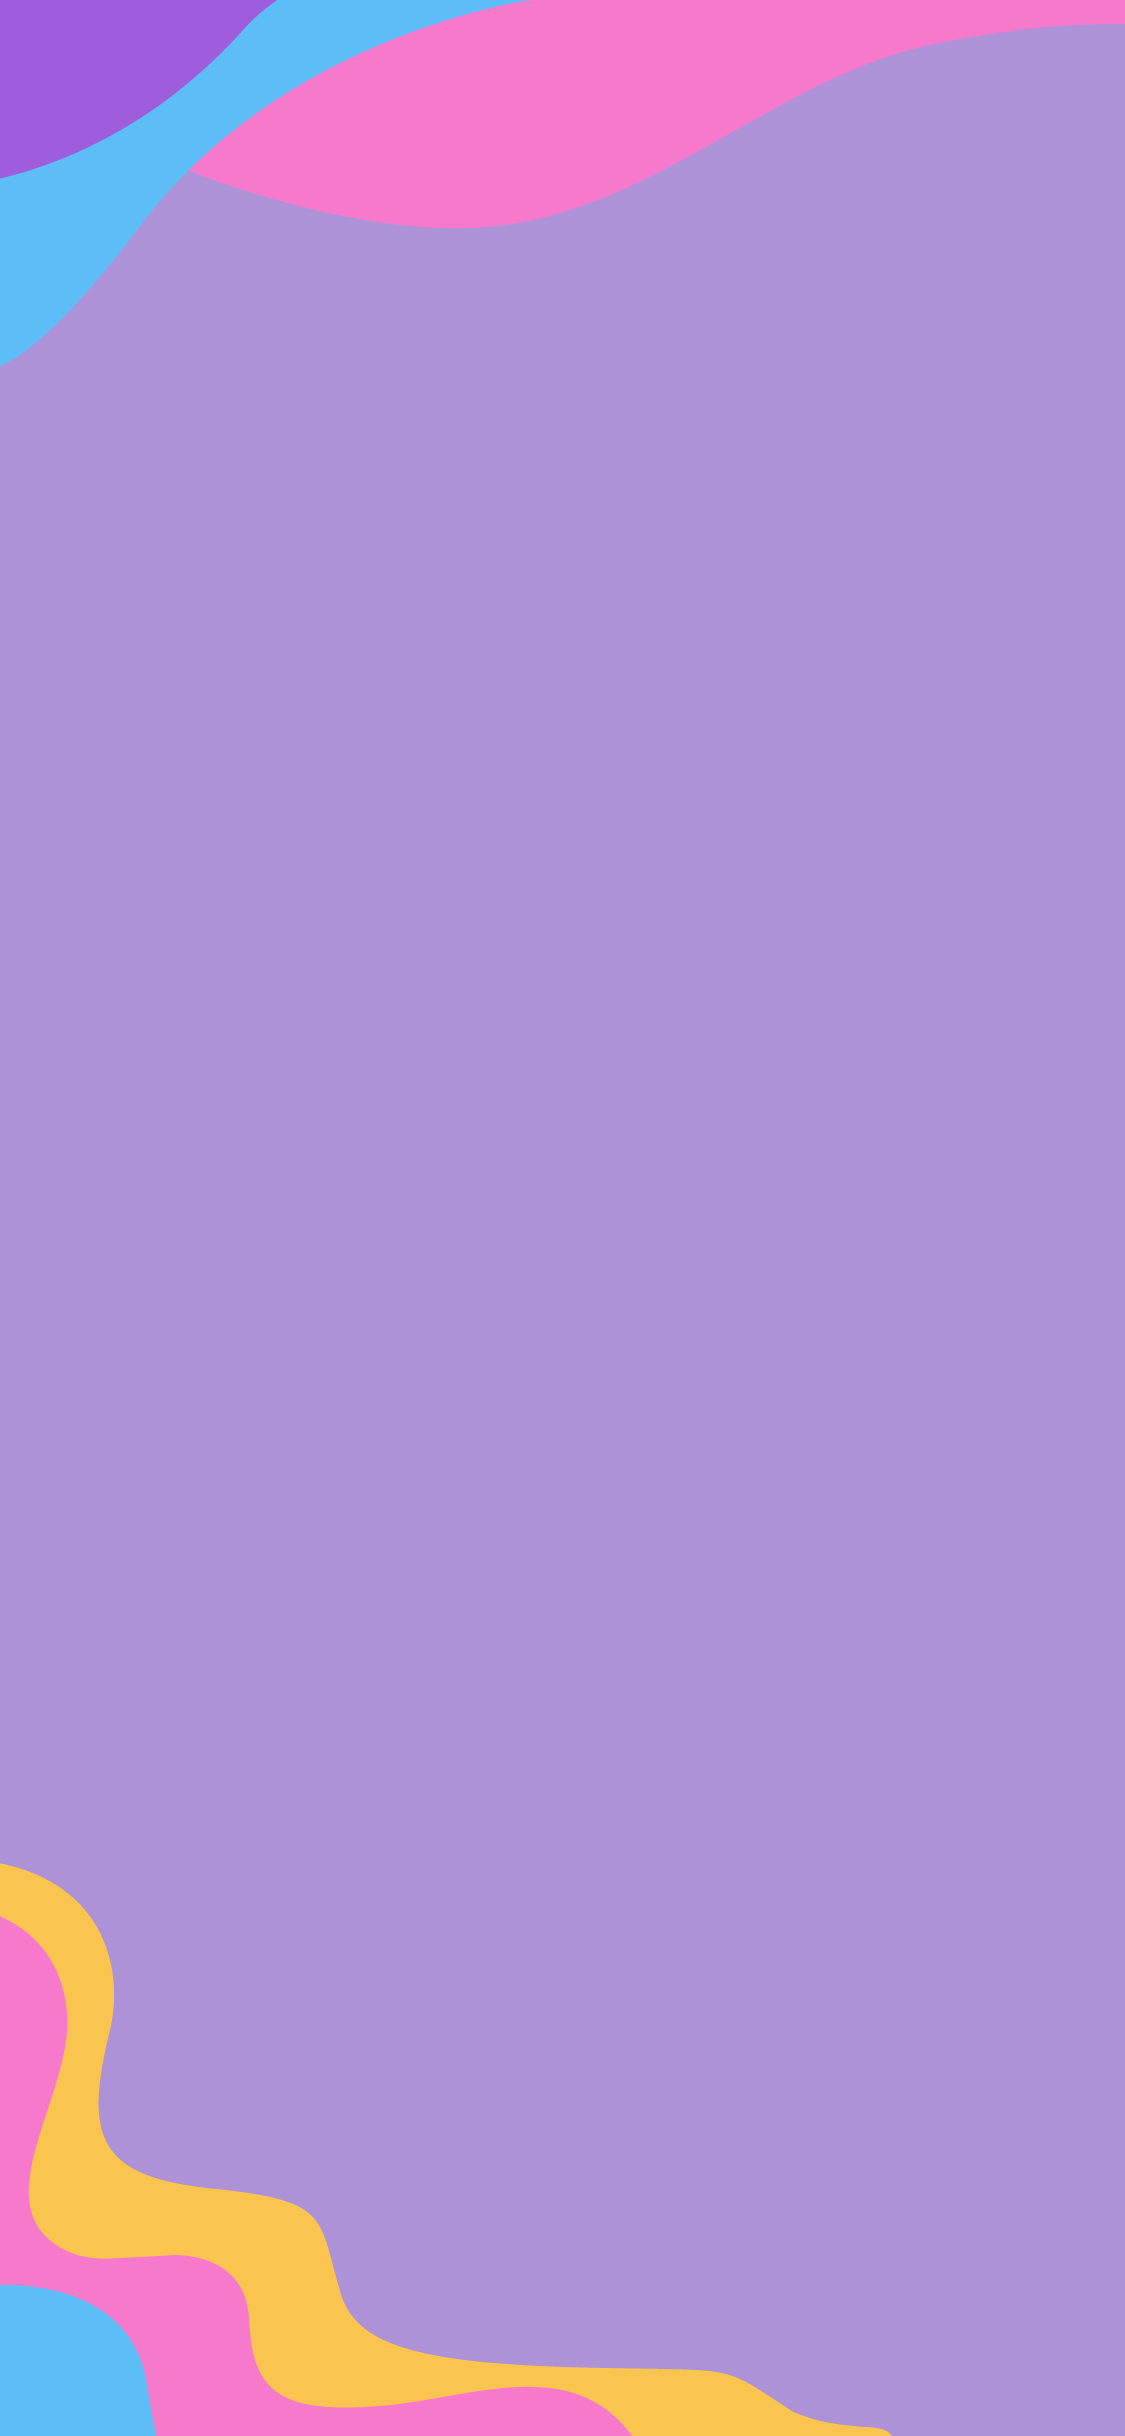
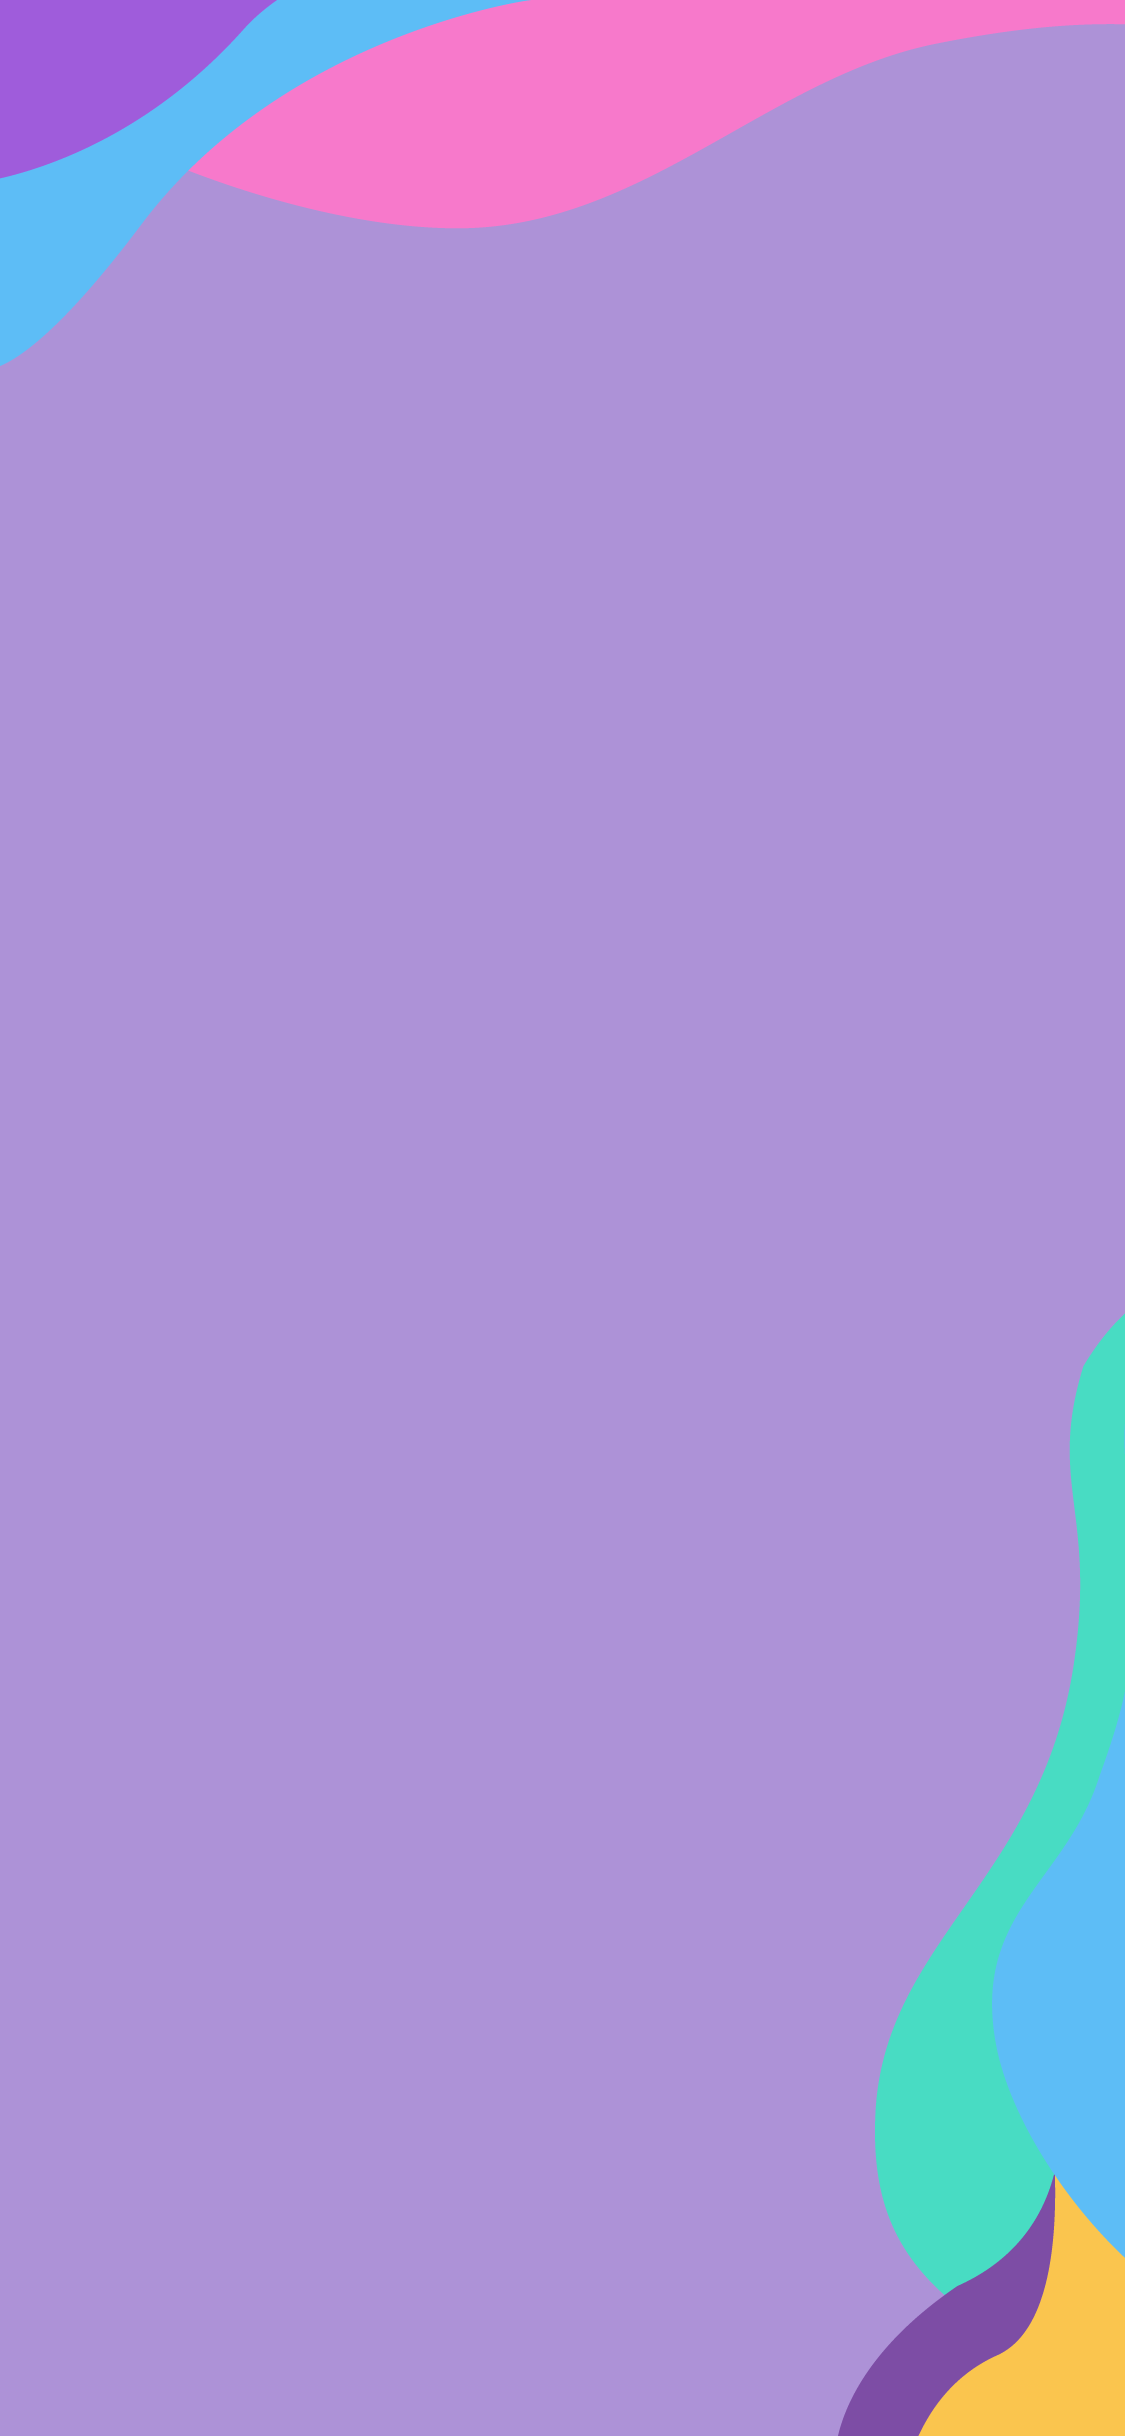
bg sroll

Changed region(s): [[0.0, 0.5304, 1.0, 1.0]]

diff --git a/app/lib/screens/main_screen.dart b/app/lib/screens/main_screen.dart
@@ -1,19 +1,21 @@
-import "package:flutter/cupertino.dart";
 import 'package:flutter/material.dart';
+import "package:flutter/cupertino.dart";
 import "package:provider/provider.dart";
-import "package:persistent_bottom_nav_bar_v2/persistent-tab-view.dart";
+import 'package:carousel_slider/carousel_controller.dart';
 
 import "package:feel_the_art/theme/theme.dart";
+import 'package:feel_the_art/components/background.dart';
 import "package:feel_the_art/services/account_service.dart";
 import "package:feel_the_art/utils/request/obj_status.dart";
 import "package:feel_the_art/screens/loading/loading_screen.dart";
+import 'package:feel_the_art/screens/leader_board/quizScreen.dart';
 
 import "account/account_screen.dart";
 import "home_page/home_page_screen.dart";
 import "collection/collection_screen.dart";
 import "on_boarding/on_boarding_screen.dart";
 import "leader_board/leader_board_screen.dart";
-import 'package:feel_the_art/screens/leader_board/quizScreen.dart';
+
 
 class MainScreen extends StatefulWidget {
   const MainScreen({Key? key}) : super(key: key);
@@ -23,76 +25,82 @@ class MainScreen extends StatefulWidget {
 }
 
 class MainScreenState extends State<MainScreen> {
-  late final PersistentTabController _controller;
+  final CarouselController _carouselController = CarouselController();
+  int _menuIndex = 0;
 
-  @override
-  void initState() {
-    super.initState();
-    _controller = PersistentTabController(initialIndex: 0);
-  }
-
-  @override
-  void dispose() {
-    super.dispose();
-    _controller.dispose();
-  }
-
-  List<PersistentBottomNavBarItem> _navBarsItems() {
-    return [
-      PersistentBottomNavBarItem(
-        icon: const Icon(CupertinoIcons.game_controller),
-        title: ("Gioca"),
-        activeColorPrimary: primaryColor,
-        inactiveColorPrimary: CupertinoColors.systemGrey,
+  List<BottomNavigationBarItem> navigationItems() {
+    return const [
+      BottomNavigationBarItem(
+        icon: Icon(CupertinoIcons.game_controller),
+        label: "Gioca",
       ),
-      PersistentBottomNavBarItem(
-        icon: const Icon(CupertinoIcons.collections),
-        title: ("Collezione"),
-        activeColorPrimary: primaryColor,
-        inactiveColorPrimary: CupertinoColors.systemGrey,
+      BottomNavigationBarItem(
+        icon: Icon(CupertinoIcons.collections),
+        label: "Collezione",
       ),
-      PersistentBottomNavBarItem(
-        icon: const Icon(CupertinoIcons.question_square),
-        title: ("Classifica"),
-        activeColorPrimary: primaryColor,
-        inactiveColorPrimary: CupertinoColors.systemGrey,
+      BottomNavigationBarItem(
+        icon: Icon(CupertinoIcons.question_square),
+        label: "Classifica",
       ),
-      PersistentBottomNavBarItem(
-        icon: const Icon(CupertinoIcons.person_crop_circle),
-        title: ("Profilo"),
-        activeColorPrimary: primaryColor,
-        inactiveColorPrimary: CupertinoColors.systemGrey,
+      BottomNavigationBarItem(
+        icon: Icon(CupertinoIcons.person_crop_circle),
+        label: "Profilo",
       ),
-      PersistentBottomNavBarItem(
-        icon: const Icon(CupertinoIcons.ellipsis_circle),
-        title: ("Debug"),
-        activeColorPrimary: primaryColor,
-        inactiveColorPrimary: CupertinoColors.systemGrey,
+      BottomNavigationBarItem(
+        icon: Icon(CupertinoIcons.ellipsis_circle),
+        label: "Debug",
       )
     ];
+  }
+
+  void _onMenuChange(int index) {
+    setState(() {
+      _menuIndex = index;
+    });
+    _carouselController.animateToPage(index);
+  }
+
+  Widget _getContent() {
+    switch (_menuIndex) {
+      case 0:
+        return const HomePageScreen();
+      case 1:
+        return const CollectionScreen();
+      case 2:
+        return const LeaderBoardScreen();
+      case 3:
+        return const AccountScreen();
+      case 4:
+        return const QuizScreen();
+      default:
+        return const Text("ERROR");
+    }
   }
 
   @override
   Widget build(BuildContext context) {
     AccountService accountInfo = Provider.of<AccountService>(context);
+
     if (accountInfo.status == ObjStatus.ready) {
-      if (accountInfo.onBoard) {
-        return const OnBoardingScreen(key: Key("OnBoardingScreen"));
-      } else {
-        return PersistentTabView(
-          context,
-          controller: _controller,
-          screens: const [
-            HomePageScreen(),
-            CollectionScreen(),
-            LeaderBoardScreen(),
-            AccountScreen(),
-            QuizScreen(),
-          ],
-          items: _navBarsItems(),
-          navBarStyle: NavBarStyle.style3,
-        );
-      }
+      return Stack(
+        children: [
+          Container(color: bgColor,),
+          Background(_carouselController),
+          accountInfo.onBoard
+              ? const OnBoardingScreen()
+              : Scaffold(
+                  backgroundColor: Colors.transparent,
+                  body: _getContent(),
+                  bottomNavigationBar: BottomNavigationBar(
+                    items: navigationItems(),
+                    currentIndex: _menuIndex,
+                    onTap: (i) => _onMenuChange(i),
+                    selectedItemColor: primaryColor,
+                    unselectedItemColor: bgColor,
+                  ),
+                )
+        ],
+      );
     } else if (accountInfo.status == ObjStatus.loading) {
       return const LoadingScreen();
     } else {

diff --git a/app/lib/screens/collection/collection_screen.dart b/app/lib/screens/collection/collection_screen.dart
@@ -16,39 +16,35 @@ class CollectionScreen extends StatelessWidget {
     final deck = Provider.of<DeckListService>(context);
     double proportionate20px = MediaQuery.of(context).getProportionateScreenHeight(20);
     if (deck.status == ObjStatus.ready) {
-      return Scaffold(
-          body: Stack(children: [
-        BackgroundScreen(bgColor.withOpacity(0.8)),
-        Column(
-          children: <Widget>[
-            Expanded(
-              flex: 1,
-              child: Align(
-                alignment: Alignment.center,
-                child: FittedBox(
-                  fit: BoxFit.scaleDown,
-                  child: Stack(
-                    children: [
-                      Text(
-                        "Collezione",
-                        style: Theme.of(context).textTheme.titleMedium,
-                      ),
-                      const Text("Collezione", style: TextStyle(fontSize: 50, color: Colors.white, fontWeight: FontWeight.w600, fontFamily: "ElsieSwashCaps"))
-                    ],
-                  ),
+      return Column(
+        children: <Widget>[
+          Expanded(
+            flex: 1,
+            child: Align(
+              alignment: Alignment.center,
+              child: FittedBox(
+                fit: BoxFit.scaleDown,
+                child: Stack(
+                  children: [
+                    Text(
+                      "Collezione",
+                      style: Theme.of(context).textTheme.titleMedium,
+                    ),
+                    const Text("Collezione", style: TextStyle(fontSize: 50, color: Colors.white, fontWeight: FontWeight.w600, fontFamily: "ElsieSwashCaps"))
+                  ],
                 ),
               ),
             ),
-            Expanded(
-              flex: 6,
-              child: Container(
-                padding: EdgeInsets.symmetric(horizontal: proportionate20px),
-                child: GridCards(deck),
-              ),
-            )
-          ],
-        )
-      ]));
+          ),
+          Expanded(
+            flex: 6,
+            child: Container(
+              padding: EdgeInsets.symmetric(horizontal: proportionate20px),
+              child: GridCards(deck),
+            ),
+          )
+        ],
+      );
     } else {
       return Text("LOADING");
     }

diff --git a/app/lib/components/background.dart b/app/lib/components/background.dart
@@ -1,45 +1,33 @@
 import 'package:feel_the_art/theme/size_config.dart';
 import "package:flutter/material.dart";
+import 'package:carousel_slider/carousel_slider.dart';
 
-class BackgroundScreen extends StatelessWidget {
-  final Color color;
+class Background extends StatelessWidget {
+  final CarouselController carouselController;
 
-  const BackgroundScreen(this.color, {super.key});
+  const Background(this.carouselController, {super.key});
 
   @override
   Widget build(BuildContext context) {
-
-    return Scaffold(
-      body:
-      AnimatedSwitcher(
-        key: const ValueKey(1),
-        duration: const Duration(milliseconds: 700),
-        child: Container(
-          decoration: const BoxDecoration(
-            image: DecorationImage(
-              image: AssetImage("assets/background/bg_1.png"),
-              fit: BoxFit.fill,
-            ),
-          ),
-        ),
-
+    return CarouselSlider(
+      carouselController: carouselController,
+      options: CarouselOptions(
+        scrollPhysics: const NeverScrollableScrollPhysics(),
+        height: MediaQuery.of(context).screenHeight,
+        viewportFraction: 1,
       ),
+      items: [1, 2, 3, 4, 5]
+          .map(
+            (i) => Container(
+              decoration: BoxDecoration(
+                image: DecorationImage(
+                  image: AssetImage("assets/background/bg_$i.png"),
+                  fit: BoxFit.fill,
+                ),
+              ),
+            ),
+          )
+          .toList(),
     );
-
-
-  //   // return Stack(
-  //   //   children: <Widget>[
-  //   //     Carousel()
-  //       Container(
-  //         // color: color,
-  //         decoration: const BoxDecoration(
-  //           image: DecorationImage(
-  //             image: AssetImage("assets/background/bg_1.png"),
-  //             fit: BoxFit.fitHeight,
-  //           ),
-  //         ),
-  //       ),
-  //     // ],
-  //   // );
   }
 }

diff --git a/app/lib/screens/home_page/home_page_screen.dart b/app/lib/screens/home_page/home_page_screen.dart
@@ -15,17 +15,12 @@ class HomePageScreen extends StatefulWidget {
 class _HomePageScreen extends State<HomePageScreen> {
   @override
   Widget build(BuildContext context) {
-    return Stack(children: [
-      BackgroundScreen(bgColor.withOpacity(0.8)),
-      Scaffold(
-          backgroundColor: Colors.transparent,
-          body: Column(
-            children: const <Widget>[
-              Expanded(flex: 2, child: HomePageScreenBar()),
-              Expanded(flex: 7, child: CardTableSlider()),
-              // Expanded(flex: 1, child: Text("DOMANDA DEL GIORNO"))
-            ],
-          ))
-    ]);
+    return Column(
+      children: const <Widget>[
+        Expanded(flex: 2, child: HomePageScreenBar()),
+        Expanded(flex: 7, child: CardTableSlider()),
+        // Expanded(flex: 1, child: Text("DOMANDA DEL GIORNO"))
+      ],
+    );
   }
 }

diff --git a/app/lib/main.dart b/app/lib/main.dart
@@ -1,11 +1,11 @@
 import "package:flutter/material.dart";
 import "package:flutter/services.dart";
-import 'package:flutter_screenutil/flutter_screenutil.dart';
 import "package:provider/provider.dart";
 import "package:device_preview/device_preview.dart";
 
 import "package:feel_the_art/theme/theme.dart";
 import "package:feel_the_art/screens/main_screen.dart";
+import "package:feel_the_art/components/background.dart";
 import "package:feel_the_art/services/account_service.dart";
 import "package:feel_the_art/services/deck_list_service.dart" as decklist;
 

diff --git a/app/lib/screens/account/account_screen.dart b/app/lib/screens/account/account_screen.dart
@@ -12,7 +12,6 @@ class AccountScreen extends StatelessWidget {
   Widget build(BuildContext context) {
     double proportionate40px = MediaQuery.of(context).getProportionateScreenHeight(40);
     return Stack(children: [
-      BackgroundScreen(bgColor.withOpacity(0.8)),
       Scaffold(
         backgroundColor: Colors.transparent,
         body: Column(

diff --git a/app/lib/screens/leader_board/quizScreen.dart b/app/lib/screens/leader_board/quizScreen.dart
@@ -26,7 +26,6 @@ class _QuizScreenState extends State<QuizScreen> {
   Widget build(BuildContext context) {
     return Stack(children: [
       Container(color: primaryColor.withOpacity(0.8)),
-      const BackgroundScreen(Colors.white),
       Scaffold(
         backgroundColor: Colors.transparent,
         body: Container(

diff --git a/app/lib/screens/leader_board/leader_board_screen.dart b/app/lib/screens/leader_board/leader_board_screen.dart
@@ -38,7 +38,6 @@ class LeaderBoardScreen extends StatelessWidget {
     double avatarSize = MediaQuery.of(context).getProportionateScreenHeight(30);
 
     return Stack(children: [
-BackgroundScreen(bgColor.withOpacity(0.8)),
       Scaffold(
         backgroundColor: Colors.transparent,
         body: Column(

diff --git a/app/lib/screens/loading/loading_screen.dart b/app/lib/screens/loading/loading_screen.dart
@@ -11,7 +11,6 @@ class LoadingScreen extends StatelessWidget {
   Widget build(BuildContext context) {
     return Scaffold(
         body: Stack(children: <Widget>[
-          BackgroundScreen(bgColor.withOpacity(0.8)),
           Align(
             alignment: Alignment.center,
             child: SizedBox(

diff --git a/app/lib/screens/card/card_screen.dart b/app/lib/screens/card/card_screen.dart
@@ -23,7 +23,6 @@ class CardScreen extends StatelessWidget {
     Border border = Border.all(color: bgColor, width: 2);
 
     return Stack(children: [
-BackgroundScreen(bgColor.withOpacity(0.8)),
       Scaffold(
         backgroundColor: Colors.transparent,
         appBar: PreferredSize(

diff --git a/app/lib/screens/on_boarding/on_boarding_screen.dart b/app/lib/screens/on_boarding/on_boarding_screen.dart
@@ -31,7 +31,6 @@ class _OnBoardingScreenState extends State<OnBoardingScreen> {
     );
 
     return Stack(children: <Widget>[
-      BackgroundScreen(bgColor.withOpacity(0.8)),
       IntroductionScreen(
         key: introKey,
         globalBackgroundColor: Colors.transparent,

diff --git a/app/lib/theme/theme.dart b/app/lib/theme/theme.dart
@@ -10,6 +10,7 @@ const blackColor = Color(0xFF1B1B1B);
 
 ThemeData theme = ThemeData(
   fontFamily: "Hind",
+  backgroundColor: bgColor,
 
   textButtonTheme: TextButtonThemeData(
     style: TextButton.styleFrom(
